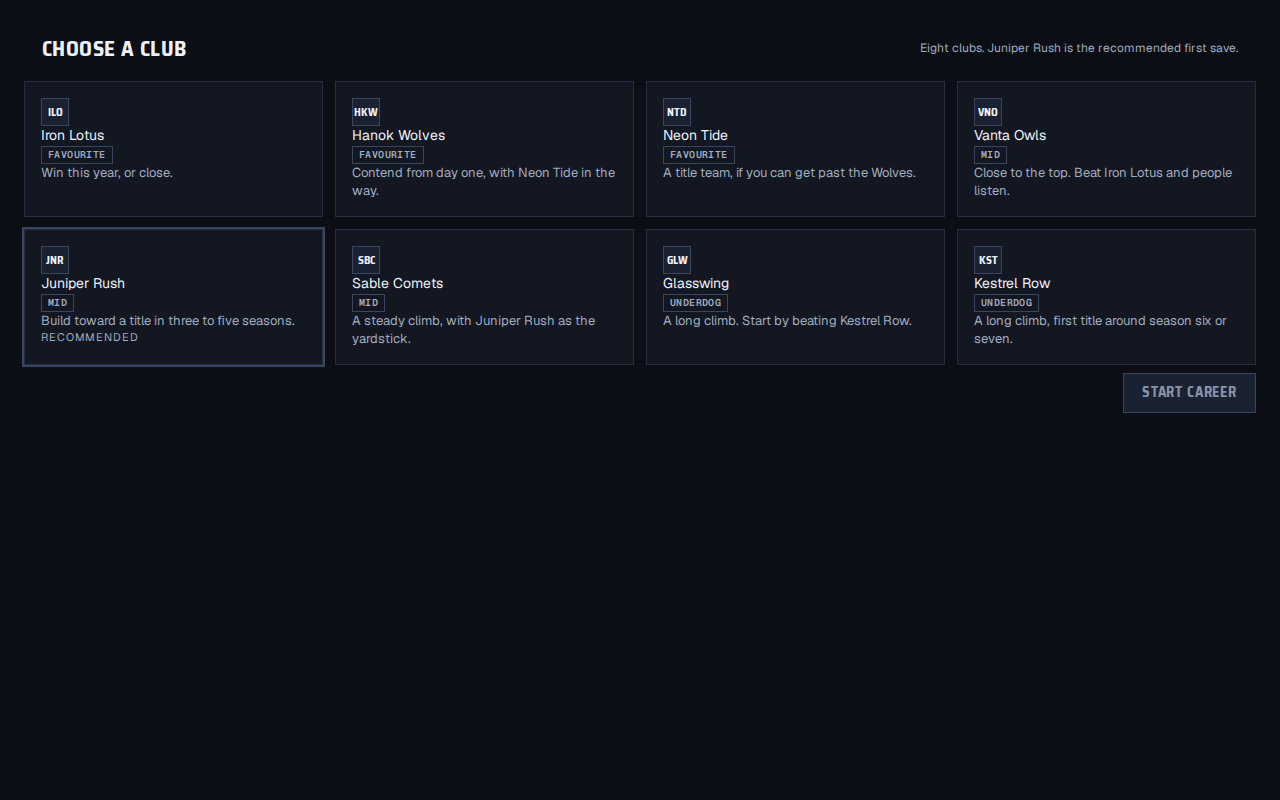
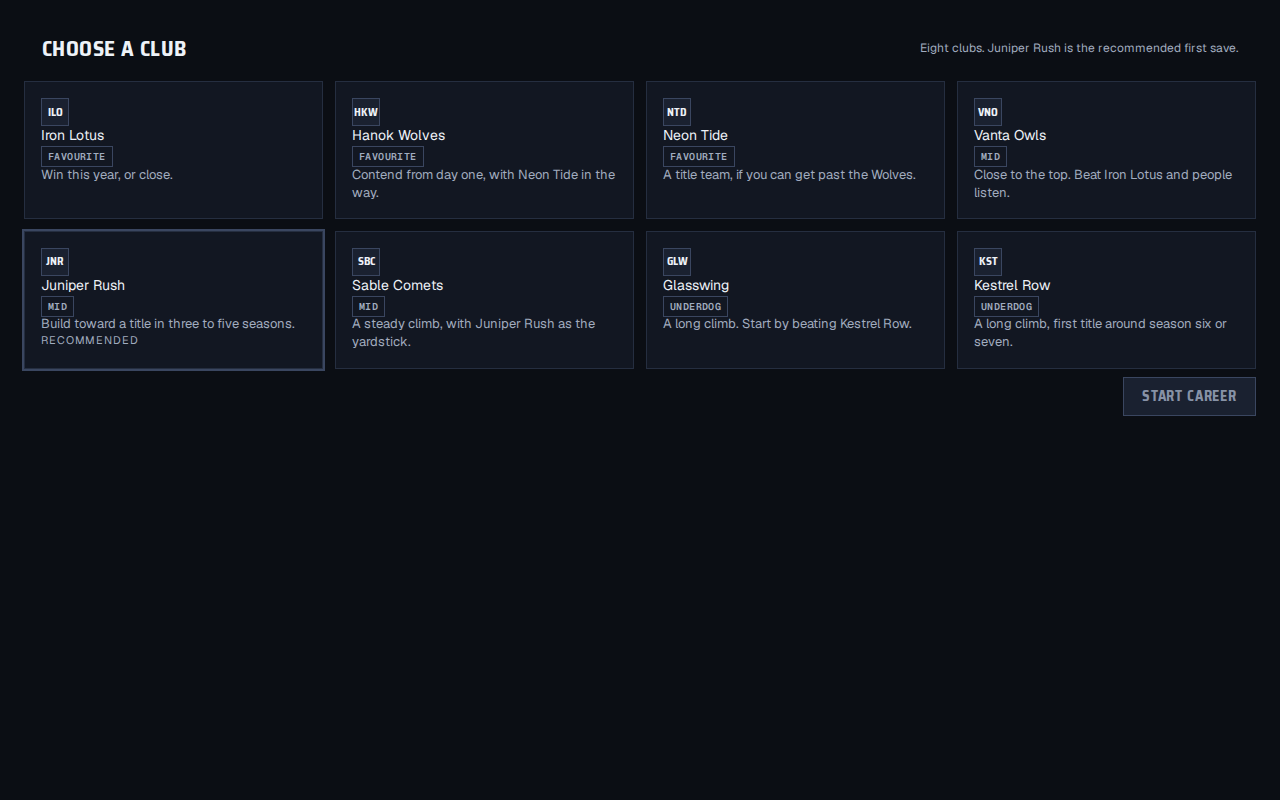
Keep the difficulty pill an inline span.
The club card is a column flex, so a pill span was blockified and could stretch. It now sits in its own line, and Playwright checks the computed display is inline.

diff --git a/apps/career/src/app.css b/apps/career/src/app.css
@@ -18,7 +18,7 @@ button.tab { background: transparent; color: inherit; border: 0; font: inherit; 
 .grid3 { display: grid; grid-template-columns: 1.1fr 1fr 360px; gap: 16px; min-height: 0; }
 .clubs { display: grid; grid-template-columns: repeat(4, 1fr); gap: 12px; }
 .clubpick { text-align: left; padding: 16px; cursor: pointer; width: 100%; }
-.clubpick .pill { align-self: flex-start; }
+.clubpick .pillwrap { align-self: flex-start; }
 .clubpick.on { outline: 2px solid var(--c-action); }
 .menu { height: 100vh; display: grid; place-items: center; }
 .menu .card { width: 420px; padding: 28px; display: grid; gap: 12px; }

diff --git a/apps/career/src/CareerApp.tsx b/apps/career/src/CareerApp.tsx
@@ -409,7 +409,9 @@ function ClubCard({ club, selected, onPick }: { club: Club; selected: boolean; o
     >
       <div className="crest sm">{club.tag}</div>
       <div className="pn">{club.name}</div>
-      <span className="pill">{DIFFICULTY[club.difficulty]}</span>
+      <span className="pillwrap">
+        <span className="pill">{DIFFICULTY[club.difficulty]}</span>
+      </span>
       {promise ? <div className="note">{promise}</div> : null}
       {club.recommended_first_save ? <div className="caps">Recommended</div> : null}
     </button>

diff --git a/apps/career/e2e/c4-verify5.spec.ts b/apps/career/e2e/c4-verify5.spec.ts
@@ -17,10 +17,12 @@ test("club pick, home, and unsigned players match the verify notes", async ({ pa
     const cardBox = card?.getBoundingClientRect();
     return {
       tag: el.tagName,
+      display: getComputedStyle(el).display,
       narrower: cardBox ? pillBox.width < cardBox.width - 8 : false,
     };
   });
   expect(shape.tag).toBe("SPAN");
+  expect(shape.display).toBe("inline");
   expect(shape.narrower).toBe(true);
 
   const start = page.getByRole("button", { name: "Start career" });
